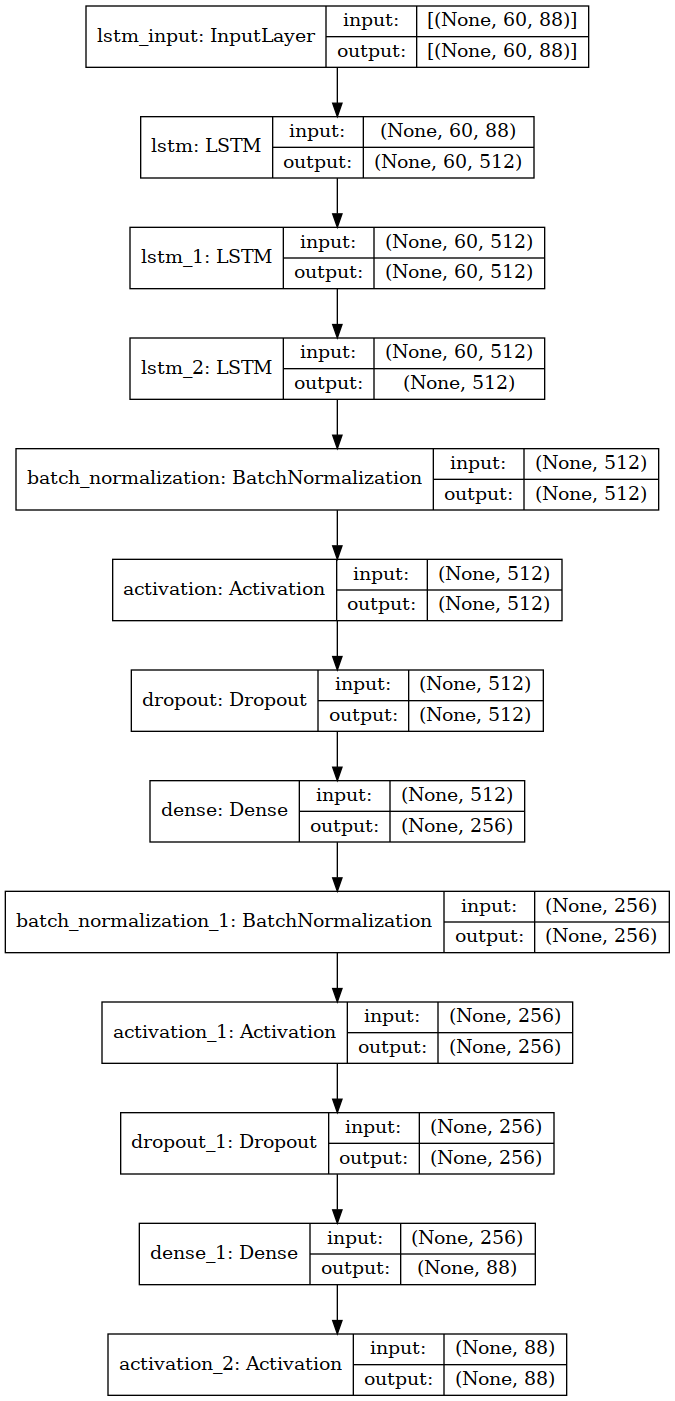
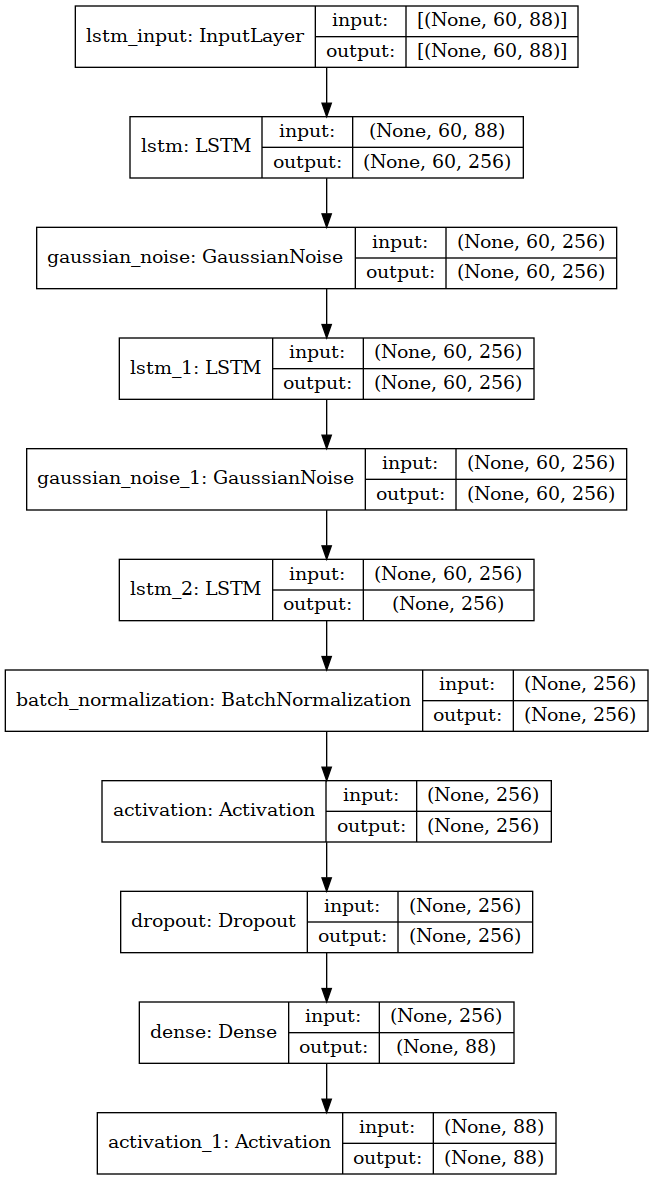
Commitus biggus

Changed region(s): [[0.0, 0.0, 1.0, 1.0]]

diff --git a/network.py b/network.py
@@ -1,3 +1,4 @@
+import math
 from keras.models import Sequential
 from keras.layers import (
     Dense,
@@ -17,13 +18,32 @@ from keras.layers import (
 from keras.optimizers import RMSprop, Adam, SGD
 from keras.regularizers import l1_l2
 from keras.utils import plot_model
+from keras.initializers import Constant
+from tensorflow.keras.metrics import top_k_categorical_accuracy
 from tensorflow.compat.v1.keras.layers import CuDNNLSTM
+from tensorflow_addons.losses import SigmoidFocalCrossEntropy
 from data_preparation import SEQUENCE_LENGTH, NUM_NOTES_TO_PREDICT, PREDICTION_SIZE
-from keras.backend import mean
+from keras.backend import mean, binary_crossentropy
 
 
-def Custom_Hamming_Loss(y_true, y_pred):
+def hamming(y_true, y_pred):
     return mean(y_true * (1 - y_pred) + (1 - y_true) * y_pred)
+
+
+def top_labels(true_label, pred_label):
+    return top_k_categorical_accuracy(true_label, pred_label, k=88)
+
+
+def get_weighted_binary_loss(weights):
+    def weighted_loss(y_true, y_pred):
+        return K.mean(
+            (weights[:, 0] ** (1 - y_true))
+            * (weights[:, 1] ** (y_true))
+            * binary_crossentropy(y_true, y_pred),
+            axis=-1,
+        )
+
+    return weighted_loss
 
 
 def create_network(weights_filename=None):
@@ -54,26 +74,53 @@ def create_network(weights_filename=None):
 
     # fixed
     #
+    # model = Sequential()
+    # model.add(
+    #     LSTM(
+    #         512,
+    #         input_shape=(SEQUENCE_LENGTH, PREDICTION_SIZE),
+    #         return_sequences=True,
+    #     )
+    # )
+    # model.add(LSTM(512, return_sequences=True))
+    # model.add(LSTM(512))
+    # model.add(BatchNorm())
+    # model.add(Activation("relu"))
+    # model.add(Dropout(0.3))
+    # model.add(Dense(256))
+    # model.add(BatchNorm())
+    # model.add(Activation("relu"))
+    # model.add(Dropout(0.3))
+    # model.add(Dense(PREDICTION_SIZE))
+    # model.add(Activation("sigmoid"))
+    # model.compile(loss="binary_crossentropy", optimizer="rmsprop", metrics=["acc"])
+
+    # custom
+    #
     model = Sequential()
     model.add(
         LSTM(
-            512,
+            256,
             input_shape=(SEQUENCE_LENGTH, PREDICTION_SIZE),
             return_sequences=True,
         )
     )
-    model.add(LSTM(512, return_sequences=True))
-    model.add(LSTM(512))
+    model.add(GaussianNoise(0.075))
+    model.add(LSTM(256, return_sequences=True))
+    model.add(GaussianNoise(0.075))
+    model.add(LSTM(256))
     model.add(BatchNorm())
     model.add(Activation("relu"))
     model.add(Dropout(0.3))
-    model.add(Dense(256))
-    model.add(BatchNorm())
-    model.add(Activation("relu"))
-    model.add(Dropout(0.3))
-    model.add(Dense(PREDICTION_SIZE))
+
+    p = 0.01
+    initial_bias = -math.log((1 - p) / p)
+    model.add(Dense(PREDICTION_SIZE, bias_initializer=Constant(initial_bias)))
+
     model.add(Activation("sigmoid"))
-    model.compile(loss="binary_crossentropy", optimizer="rmsprop", metrics=["acc"])
+
+    loss = SigmoidFocalCrossEntropy(alpha=1, gamma=8.0)
+    model.compile(loss=loss, optimizer="rmsprop", metrics=[hamming, "acc"])
 
     # our
     # val_loss ~= 1800

diff --git a/train.py b/train.py
@@ -21,7 +21,7 @@ from data_preparation import (
 
 LOG_DIR = "logs/"
 BATCH_SIZE = 128
-DATASET_PERCENT = 0.1
+DATASET_PERCENT = 0.15
 
 
 def get_latest_checkpoint():
